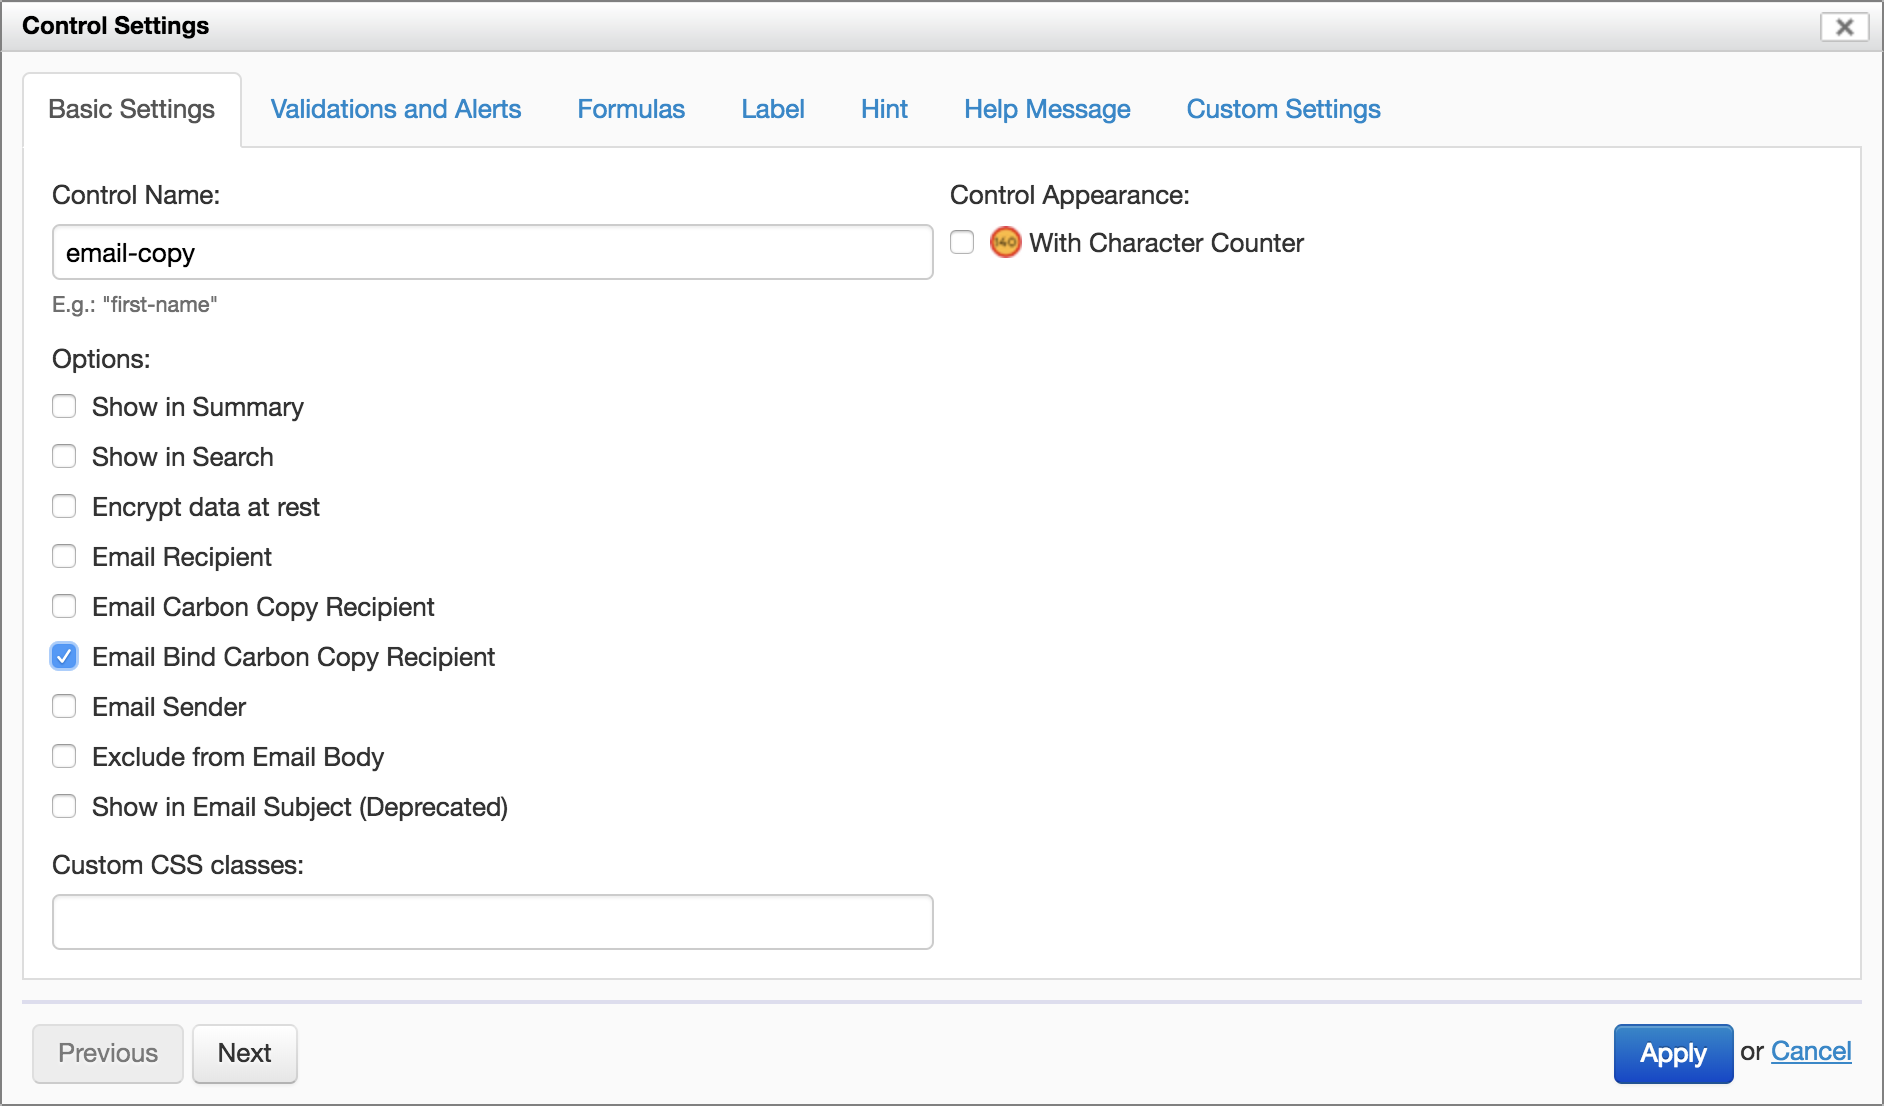
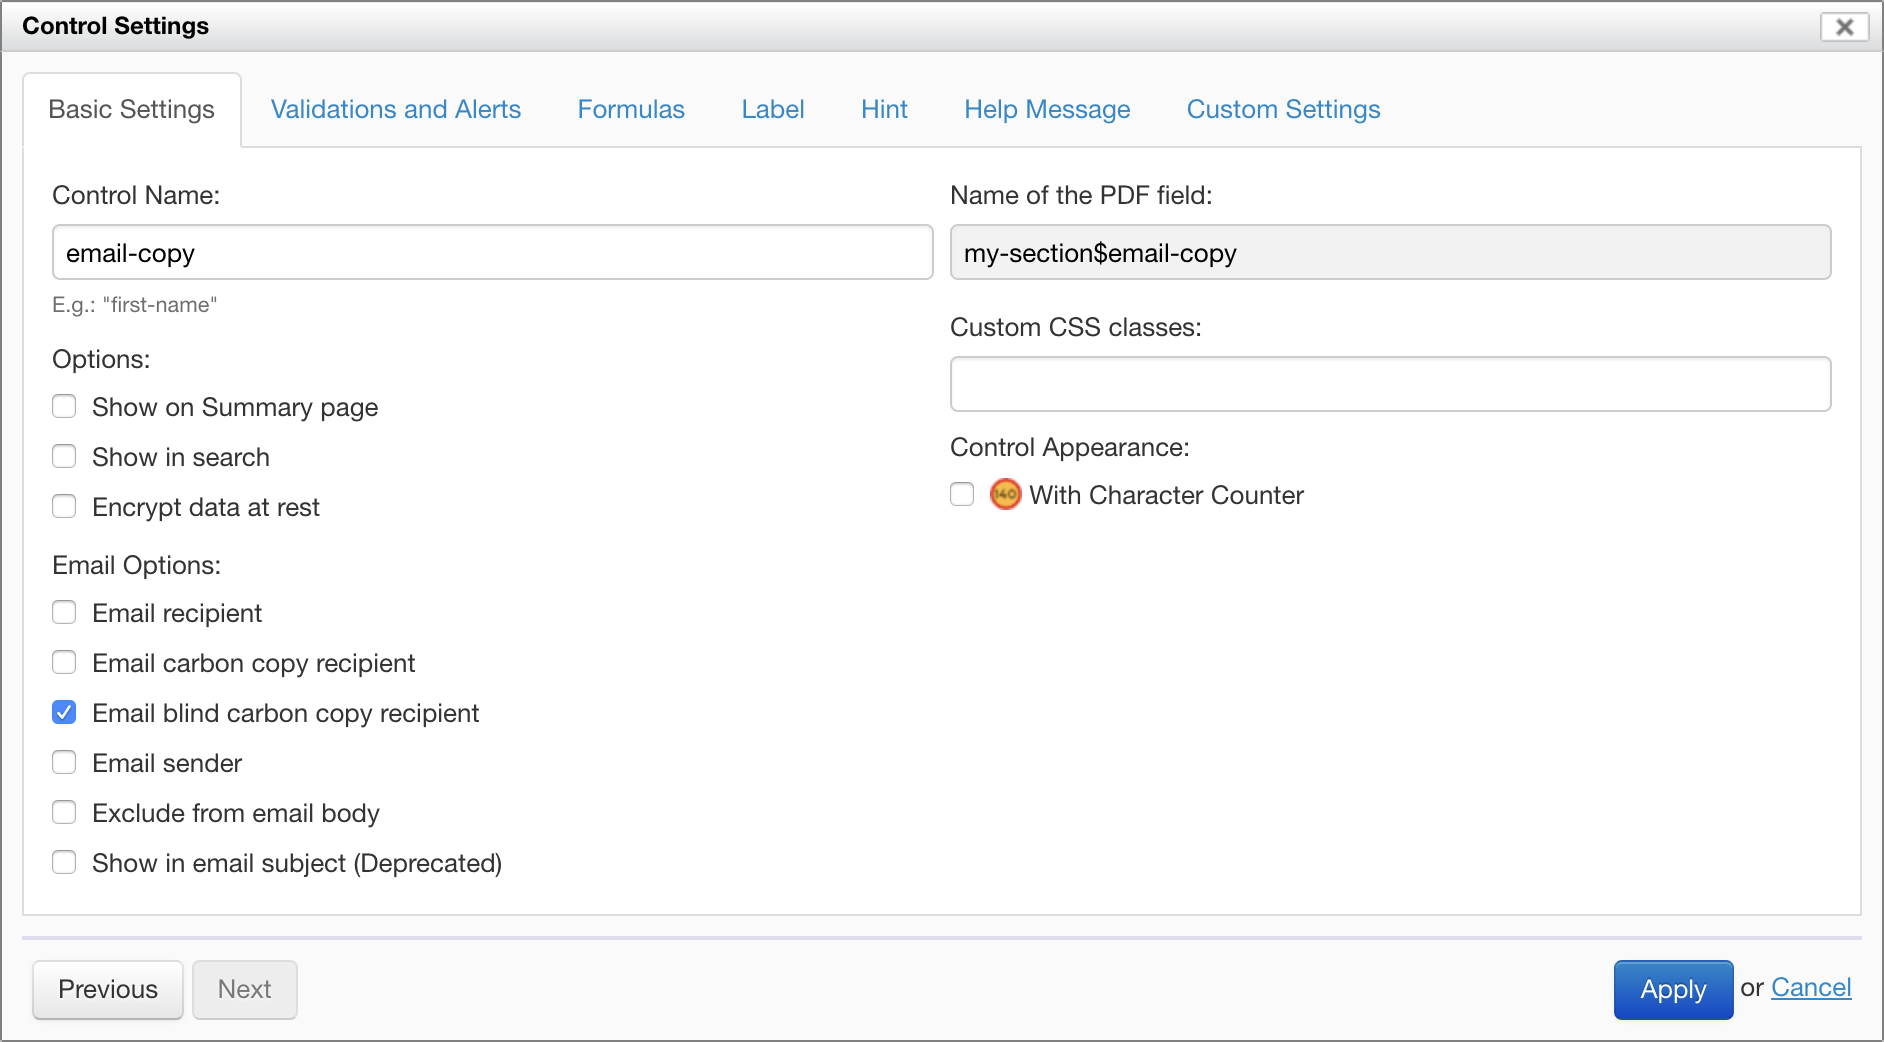
Name of the PDF field, links

diff --git a/form-builder/control-settings.md b/form-builder/control-settings.md
@@ -21,14 +21,19 @@ If no control name is explicitly specified, Form Builder assigns a default name,
 
 The following options are available:
 
-- __Show in Summary:__
+- __Show on Summary page:__
     - When selected, the control value is visible as a Summary page column.
 - __Show in Search:__
     - When selected, the control value is searchable in the Summary page.
 - __Encrypt data at rest:__
     - SINCE Orbeon Forms 2018.1
     - This is an Orbeon Forms PE feature.
-    - TODO
+    - See [Field-level encryption](/form-builder/field-level-encryption.md) for details.
+    
+The following email options are available:
+
+*NOTE: SINCE Orbeon Forms 2018.2, these options are in a separate list.*
+    
 - __Email Recipient:__
     - When selected, the control is used to determine an email recipient ("To:") when the form data is sent by email.
     - If more than one non-blank email addresses is found, they are all included as email recipients. In addition, the `oxf.fr.email.to` property is used.
@@ -57,6 +62,16 @@ The following options are available:
     - When selected, the control value is used as part of the subject of the email when the form data is sent by email.
     - If more than one non-blank values are found, they are all included in the email subject, comma-separated.
 
+#### Name of the PDF field
+
+[SINCE Orbeon Forms 2018.2]
+
+This informational field shows the name of the field to use when using a PDF template.
+
+See also [PDF templates](/form-builder/pdf-templates.md).
+
+#### Custom CSS classes
+
 The "Custom CSS Classes" field allows adding CSS classes which will be placed on the control in the resulting HTML. This can be used for custom styling.
 
 #### Control appearance
@@ -73,7 +88,7 @@ See also [How the new Form Builder Appearance Selector Works](https://blog.orbeo
 
 Some controls have custom settings. For example:
 
-![Custom Control Settings](images/custom-properties.png)
+![Custom Control Settings](images/control-settings-custom-properties.png)
 
 See also [Control metadata for the Control Settings dialog](metadata.md#control-metadata-for-the-control-settings-dialog)
 

diff --git a/form-builder/pdf-templates.md b/form-builder/pdf-templates.md
@@ -51,7 +51,24 @@ Form Runner identifies the PDF fields to fill-out based on their name. Those nam
 
 [SINCE Orbeon Forms 2018.2]
 
-The PDF field name is shown in the ["Control Settings"](/form-builder/control-settings.md) dialog.
+The PDF field name is shown in the ["Control Settings"](/form-builder/control-settings.md) dialog under "Name of the PDF field".
+
+In the case of repeated fields, note that the name shows an example *suffix* containing the repeat iterations, such as `$1` or `$1-1`. To target individual iterations, use the appropriate repetition number, for example:
+
+- `section-1$location$1`
+- `section-1$location$2`
+
+or, for a control in a nested repeated section or grid:
+
+- `section-1$location$1-1`
+- `section-1$location$1-2`
+- `section-1$location$1-3`
+- `section-1$location$2-1`
+- `section-1$location$2-2`
+
+etc.
+
+![Name of the PDF field](images/control-settings.png)
 
 ## Controls
 

diff --git a/features.md b/features.md
@@ -20,6 +20,7 @@ As of 2016-04-19 this page is still being updated.
 - Security features
     - Protecting against attacks: [doc](configuration/advanced/security.md)
     - Content-Security-Policy header: [doc](configuration/advanced/content-security-policy.md), [blog post](https://blog.orbeon.com/2018/08/improving-security-with-content.html)
+    - Field-level encryption: [doc](form-builder/field-level-encryption.md)
 - Inserting and reordering grid rows: [blog post](https://blog.orbeon.com/2013/11/inserting-and-reordering-grid-rows.html)
 - Repeated grids and sections
     - Repeated grids: [doc](form-builder/repeated-grids.md), [older blog post](https://blog.orbeon.com/2012/04/support-for-repeats-lands-in-form.html)

diff --git a/form-builder/metadata.md b/form-builder/metadata.md
@@ -150,7 +150,7 @@ See also [Custom control settings](control-settings.md#custom-control-settings).
 
 `<fb:control-details>` can contain any XForms control. This allows for more flexible layouts:
 
-![Custom Control Settings](images/custom-properties.png)
+![Custom Control Settings](images/control-settings-custom-properties.png)
 
 In addition, you can place an `<xf:model>`, which can be used for:
 

diff --git a/form-builder/field-level-encryption.md b/form-builder/field-level-encryption.md
@@ -55,4 +55,5 @@ We expect these limitations to be lifted in future versions of Orbeon Forms.
 
 ## See also 
 
-- [Re-encryption](../form-runner/features/home-page#re-encryption)
+- [Basic Settings](/form-builder/control-settings.md)
+- [Re-encryption](/form-runner/features/home-page#re-encryption)
